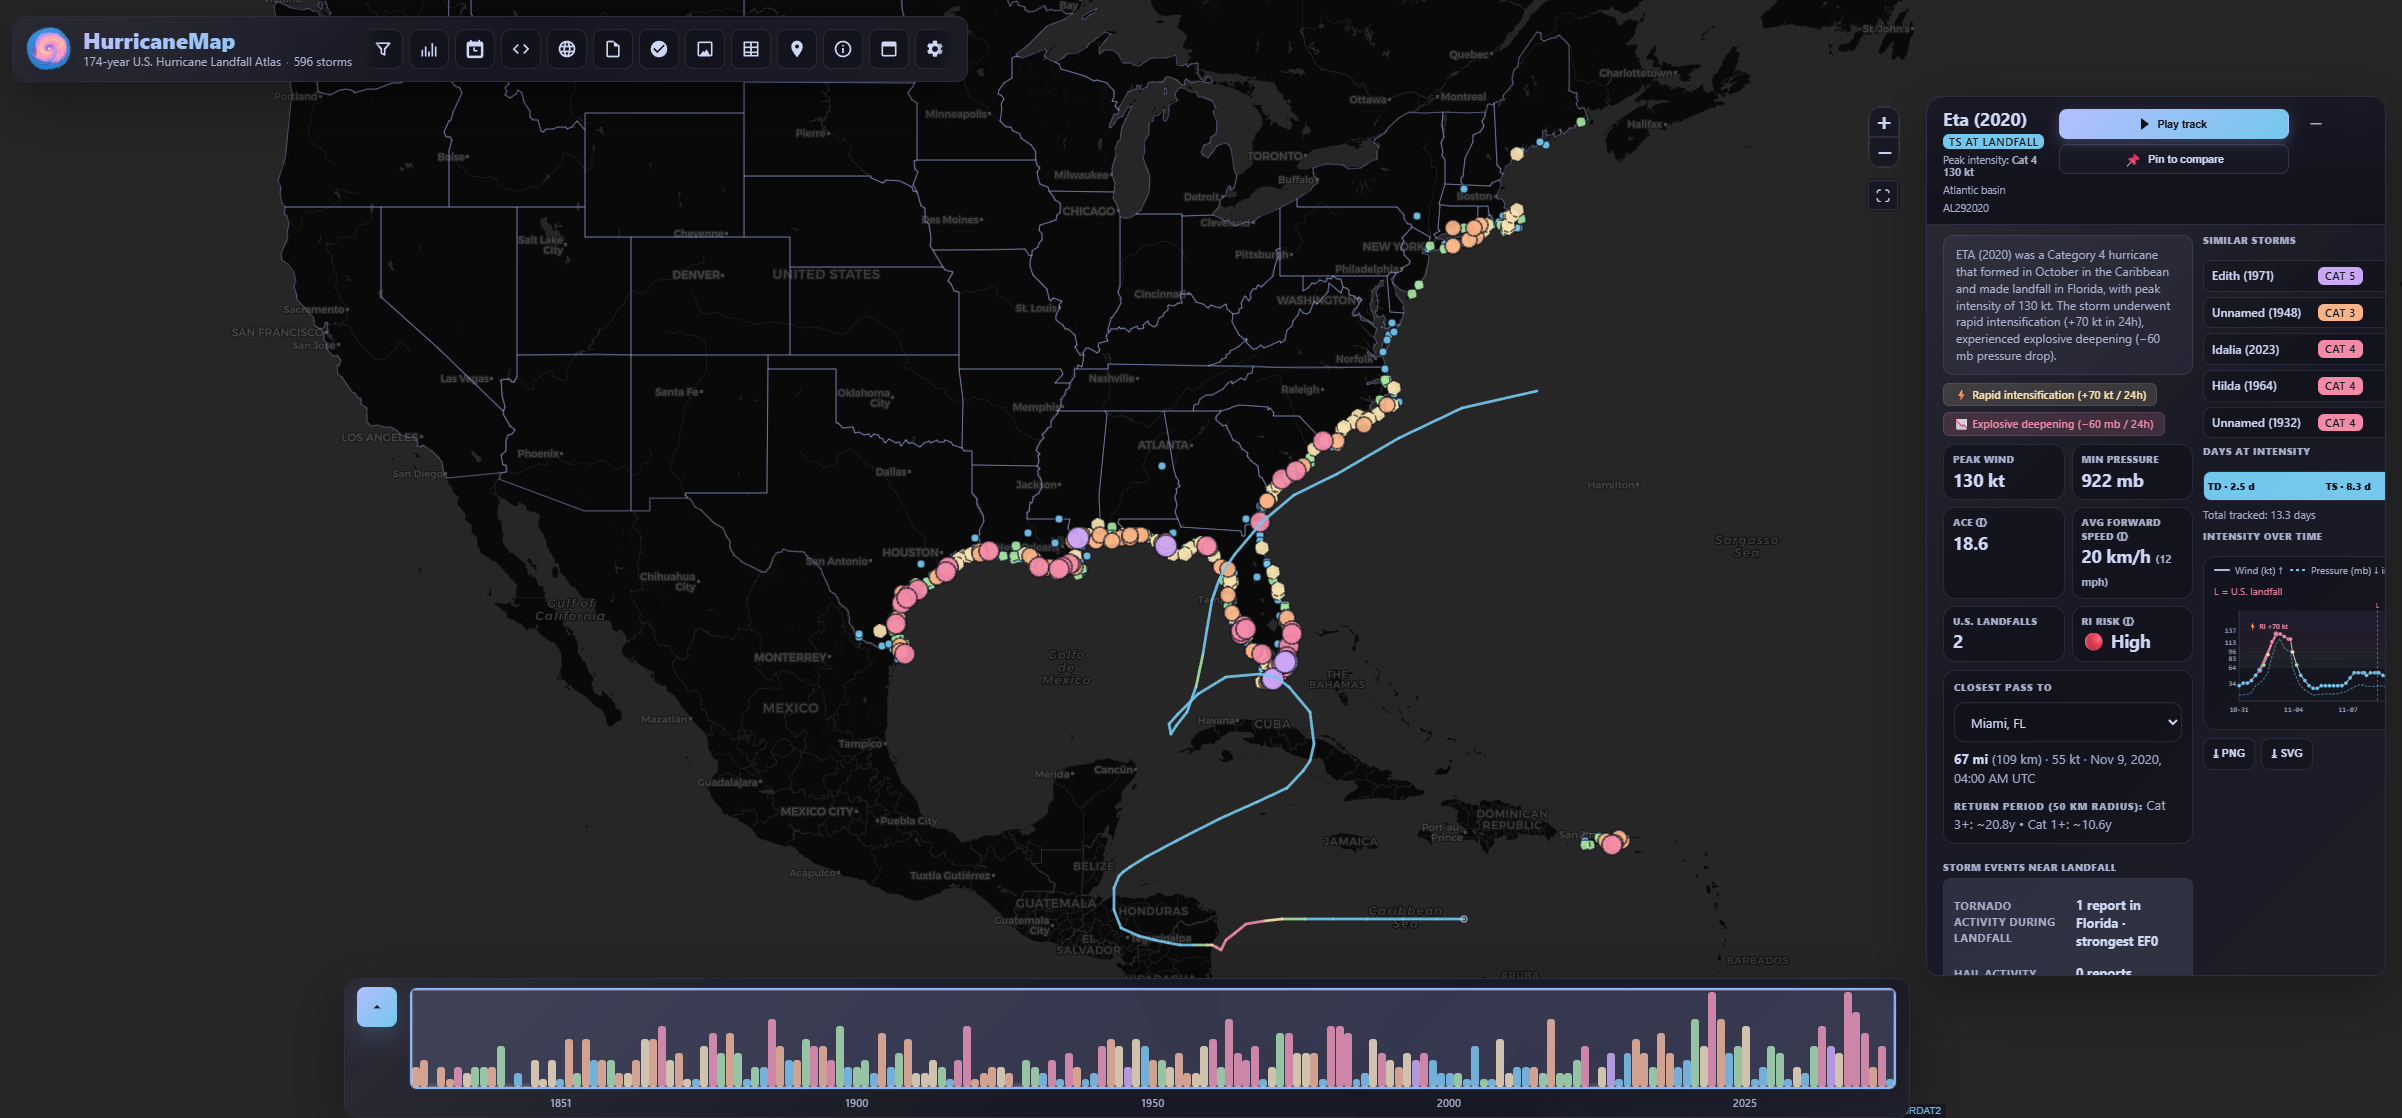
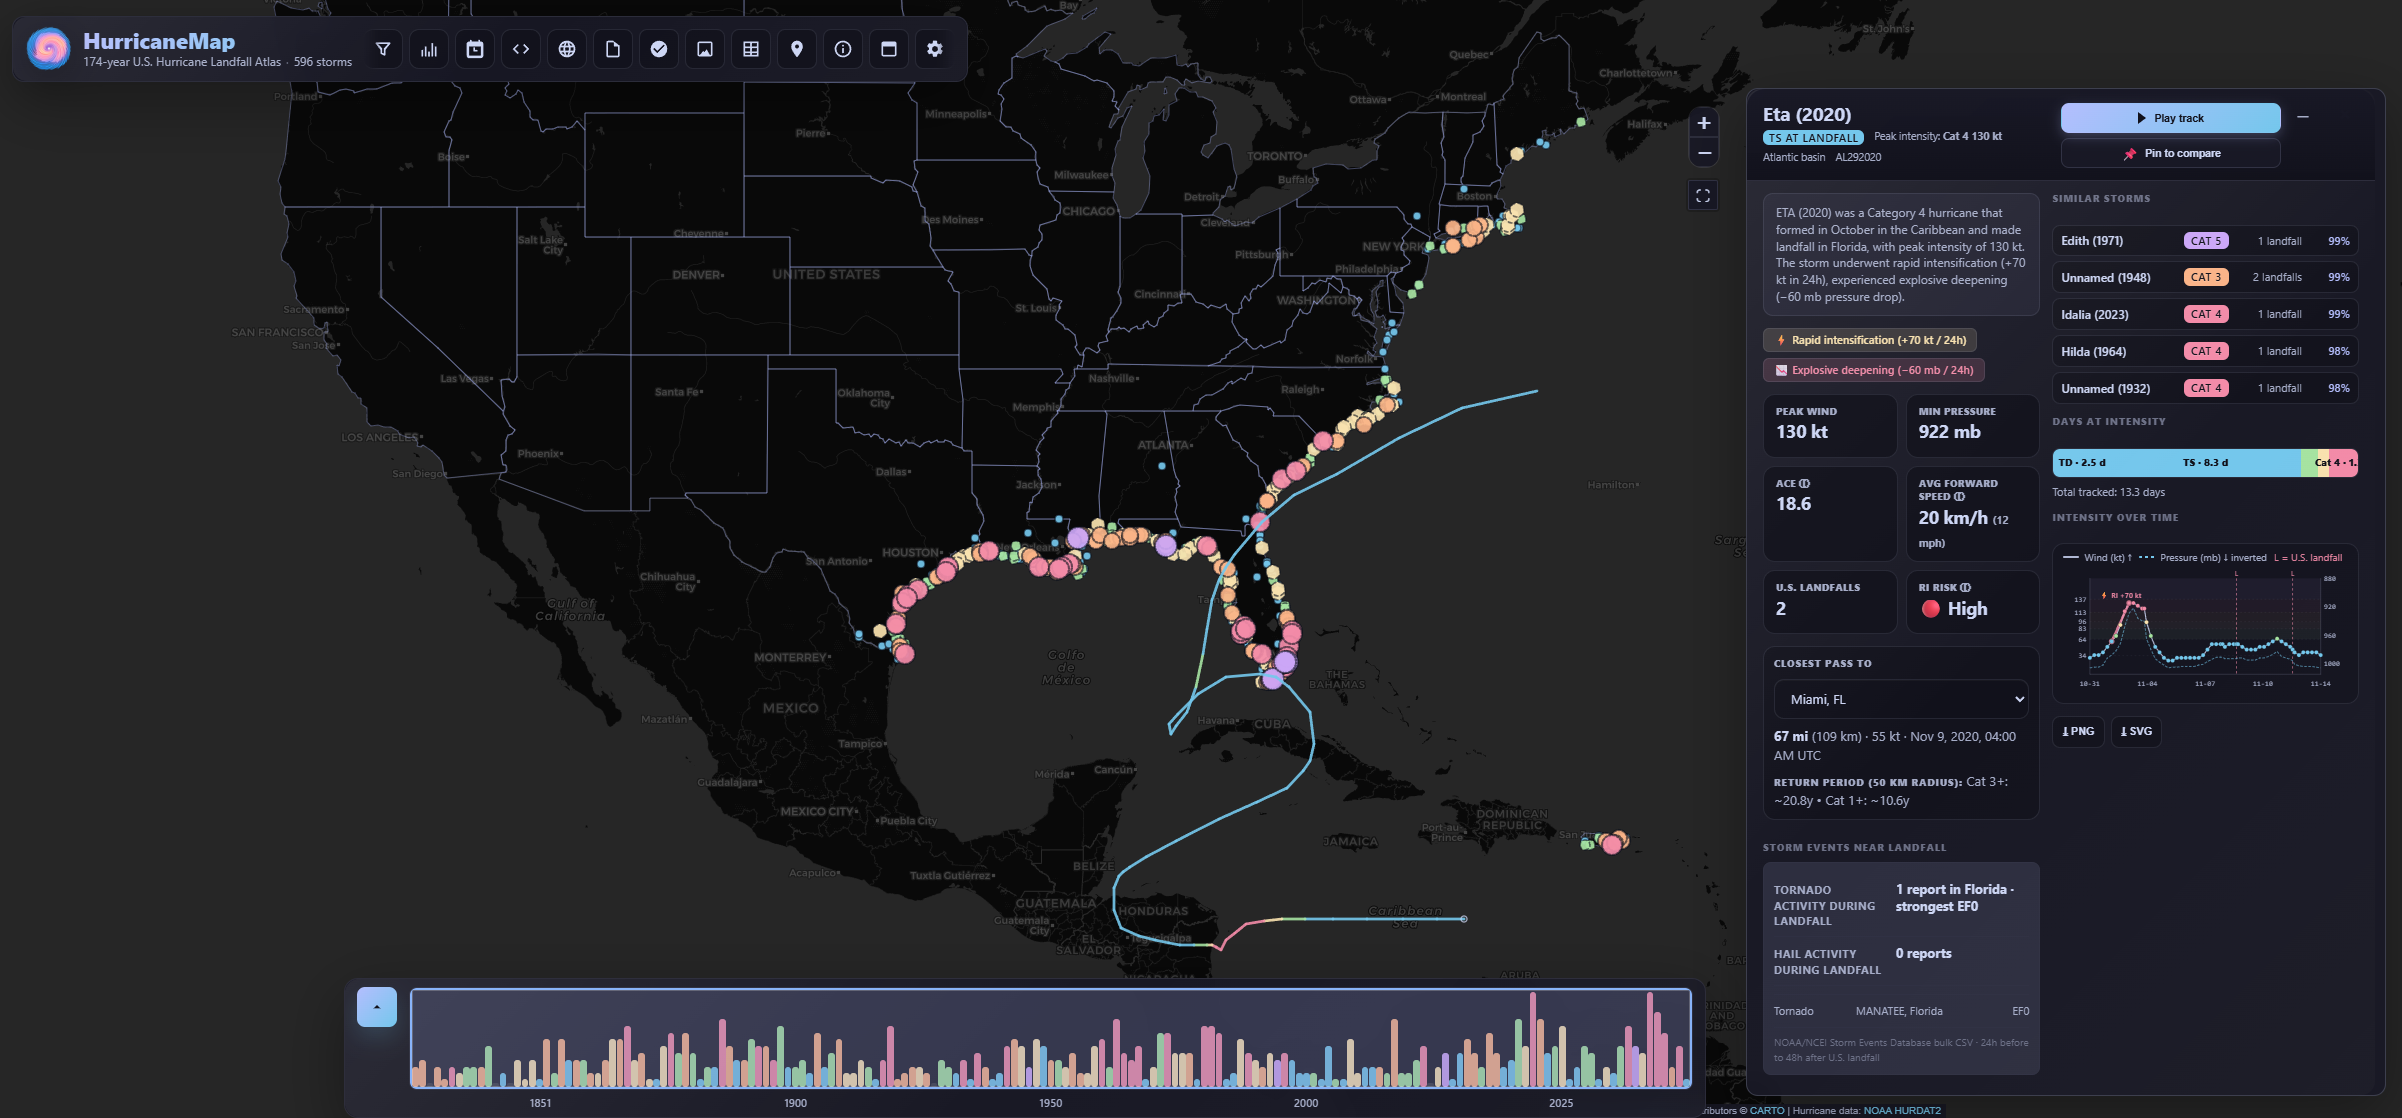
release: v1.4.4

diff --git a/sw.js b/sw.js
@@ -12,7 +12,7 @@
 //
 // Bump SW_VERSION on every release to flush the static shell.
 
-const SW_VERSION = 'hm-v1.4.3';
+const SW_VERSION = 'hm-v1.4.4';
 const SHELL_CACHE = `hm-shell-${SW_VERSION}`;
 const DATA_CACHE = 'hm-data-v2';
 const TILE_CACHE = 'hm-tiles-v1';

diff --git a/README.md b/README.md
@@ -1,7 +1,7 @@
 # HurricaneMap
 
 [![Live demo](https://img.shields.io/badge/live%20demo-sysadmindoc.github.io%2FHurricaneMap-cba6f7.svg)](https://sysadmindoc.github.io/HurricaneMap/)
-[![Version](https://img.shields.io/badge/version-1.4.3-blue.svg)](https://github.com/SysAdminDoc/HurricaneMap/releases)
+[![Version](https://img.shields.io/badge/version-1.4.4-blue.svg)](https://github.com/SysAdminDoc/HurricaneMap/releases)
 [![License](https://img.shields.io/badge/license-MIT-green.svg)](LICENSE)
 [![Platform](https://img.shields.io/badge/platform-web-lightgrey.svg)](#)
 [![Data](https://img.shields.io/badge/data-NOAA%20HURDAT2-orange.svg)](https://www.nhc.noaa.gov/data/)
@@ -62,6 +62,14 @@ npm run build
 - **🚨 Active storm tracking** — when NHC reports active storms, a pulsing badge appears at the top with cone-of-uncertainty + advisory tracks rendered on the map, an optional live GOES satellite backdrop, hourly active-season feed checks, retry/backoff status, and quicklinks to spaghetti-model viewers (Tropical Tidbits, Track The Tropics).
 - **👥 Population density** — toggle the SEDAC GPWv4 1km gridded-population overlay to see how many people live in each storm's path / surge zone.
 - Search by name OR year. Filter by year range, Saffir-Simpson category, or state.
+
+## What's new in v1.4.4 - Desktop panel refinement (July 2026)
+
+- **Desktop panels breathe.** Analytical panels now use a wider but bounded inspector lane so charts, records, and controls are readable without covering the whole map.
+- **State and stats panels are orderly.** Legacy dashboard columns were reshaped into stable two-column desktop grids that do not clip or push content offscreen.
+- **Less window clutter.** The season summary now hides while a side panel is open, leaving one primary reading surface plus the map.
+- **Keyboard-accessible state rows.** State storm records now expose button semantics, focus states, and Enter/Space activation.
+- **Regression coverage.** Smoke tests now prove desktop panel fit, state-row accessibility, hidden competing shelves, and storm/state/stats layout across themes.
 
 ## What's new in v1.4.3 - Premium layout and settings polish (July 2026)
 

diff --git a/CHANGELOG.md b/CHANGELOG.md
@@ -2,6 +2,14 @@
 
 All notable changes to HurricaneMap.
 
+## v1.4.4 - Desktop panel refinement (July 2026)
+
+- Rebalanced desktop side panels into a wider bounded inspector lane so storm, state, stats, comparison, table, and spatial panels have enough room without swallowing the map.
+- Reworked storm, state, and statistics panel internals into two-column desktop grids that avoid clipped legacy dashboard columns and keep section spacing consistent.
+- Hid the season summary while an analytical panel is open, reducing competing floating windows on desktop.
+- Made state storm rows keyboard-accessible with button semantics, focus states, and Enter/Space activation.
+- Extended smoke coverage to assert desktop panel width, no clipped panel internals, hidden competing shelves, state-row accessibility, and stats/state/storm panel fit across themes.
+
 ## v1.4.3 - Premium layout and settings polish (July 2026)
 
 - Compressed mobile playback chrome so the map remains the primary surface: the header collapses to a compact identity strip, the storm panel stays as a small edge restore tab, and playback controls render as a bounded command dock.
